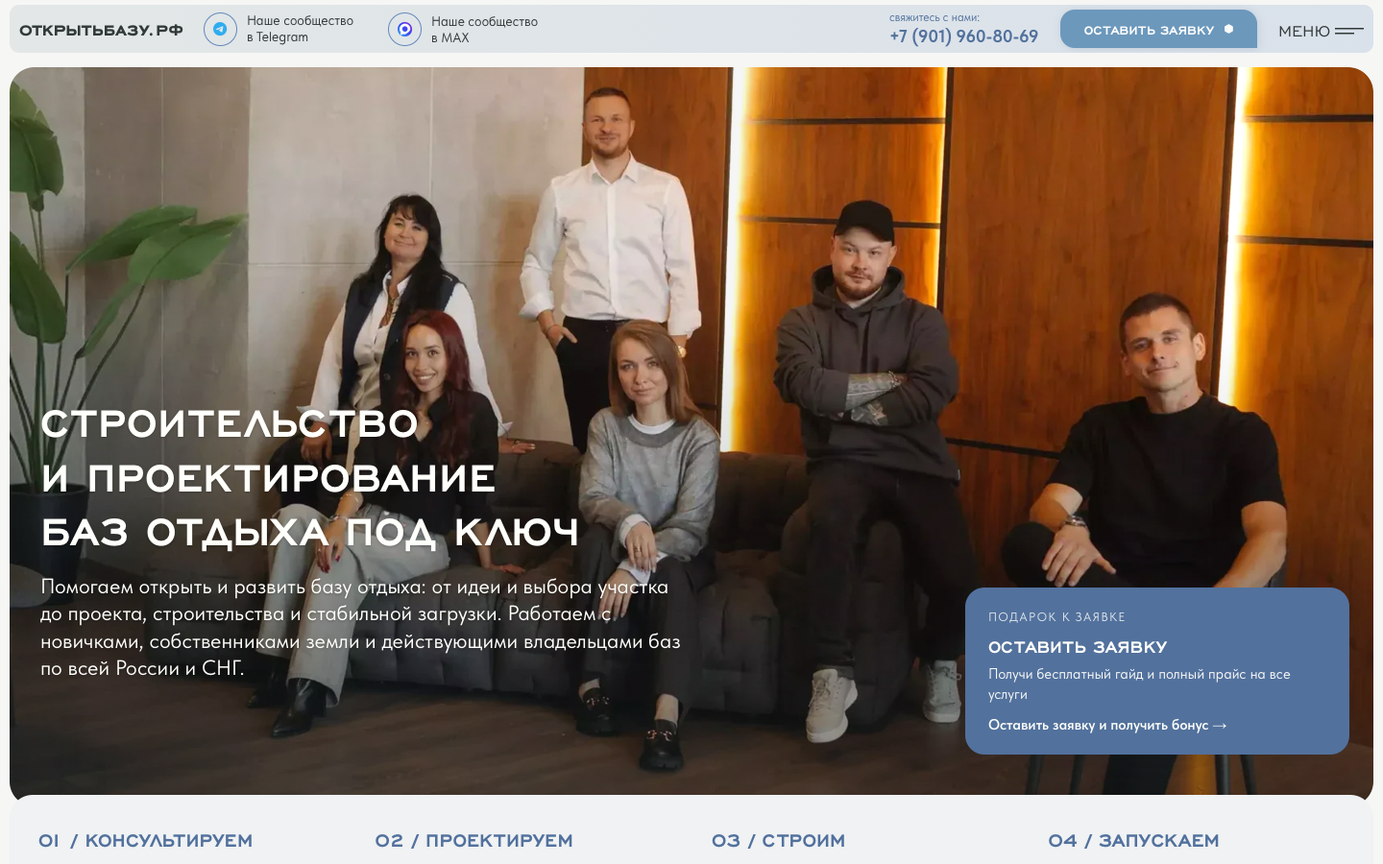
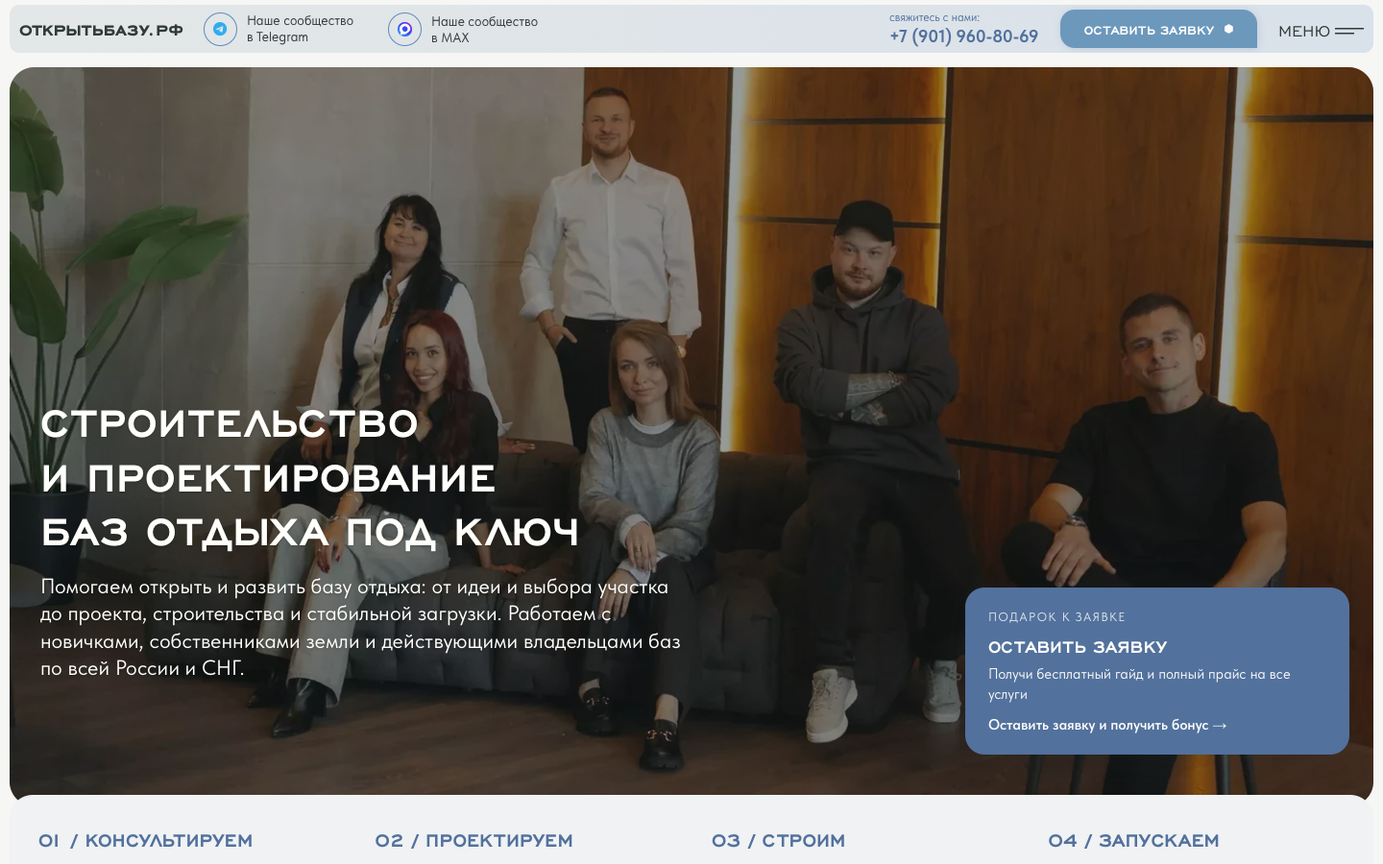
demo-26-11: равномерное затемнение фото для читаемости текста

diff --git a/demo-light-26-11/hero-reference.html b/demo-light-26-11/hero-reference.html
@@ -1,5 +1,5 @@
 <!DOCTYPE html>
-<html> <head><link rel="stylesheet" href="assets/hero-reference.css?v=reference"> <meta name="robots" content="noindex,nofollow,noarchive"><meta http-equiv="Content-Security-Policy" content="form-action 'none'; base-uri 'self'"><script src="assets/guard.js"></script><meta charset="utf-8">  <meta name="viewport" content="width=device-width, initial-scale=1.0"> <meta name="yandex-verification" content="db0ff118132128a9"> <!--metatextblock--> <title>Строительство и проектирование базы отдыха под ключ — от концепции до запуска</title> <meta name="description" content="Строительство базы отдыха под ключ: проектирование баз отдыха, разработка проектной документации, инженерных сетей и строительных решений, согласование и реализация объекта с учетом норм, ландшафта и туристического спроса"> <meta name="keywords" content="Строительство базы отдыха под ключ"> <meta property="og:url" content="https://xn--80abtjtnmcm9em.xn--p1ai"> <meta property="og:title" content="Открытьбазу.рф - платформа для открытия и продвижения баз отдыха"> <meta property="og:description" content="Наша платформа предоставляет полный спектр услуг для владельцев баз отдыха: от консультаций до продвижения вашего бизнеса. Мы поможем вам на каждом этапе — от создания проекта до успешного выхода на рынок."> <meta property="og:type" content="website"> <meta property="og:image" content="https://static.tildacdn.com/tild3066-3834-4465-a239-396330313564/IMG_7220-min.webp"> <link rel="canonical" href="https://xn--80abtjtnmcm9em.xn--p1ai"> <!--/metatextblock--> <meta name="format-detection" content="telephone=no"> <meta http-equiv="x-dns-prefetch-control" content="on"> <link rel="dns-prefetch" href="https://ws.tildacdn.com"> <link rel="dns-prefetch" href="https://static.tildacdn.com"> <!--favicons--> <link rel="icon" type="image/png" sizes="32x32" href="https://static.tildacdn.com/tild6233-6563-4039-a531-323463353235/Group_39681.png" media="(prefers-color-scheme: light)"> <link rel="icon" type="image/png" sizes="32x32" href="https://static.tildacdn.com/tild6265-3963-4135-b064-613138316530/Group_39681.png" media="(prefers-color-scheme: dark)"> <link rel="apple-touch-icon" type="image/png" href="https://static.tildacdn.com/tild3333-3363-4532-a564-623338663766/Group_39681.png"> <link rel="icon" type="image/png" sizes="192x192" href="https://static.tildacdn.com/tild3333-3363-4532-a564-623338663766/Group_39681.png"> <!--/favicons--> <!-- Assets --> <script src="https://neo.tildaapi.com/js/tilda-fallback-1.0.min.js" async charset="utf-8"></script> <link rel="stylesheet" href="https://static.tildacdn.com/css/tilda-grid-3.0.min.css" type="text/css" media="all" onerror="this.loaderr='y';"> <link rel="stylesheet" href="https://static.tildacdn.com/ws/project6324277/tilda-blocks-page108464746.min.css?t=1795439974" type="text/css" media="all" onerror="this.loaderr='y';"> <link rel="stylesheet" href="https://static.tildacdn.com/css/tilda-animation-2.0.min.css" type="text/css" media="all" onerror="this.loaderr='y';"> <link rel="stylesheet" href="https://static.tildacdn.com/css/tilda-popup-1.1.min.css" type="text/css" media="print" onload="this.media='all';" onerror="this.loaderr='y';"> <link rel="stylesheet" href="https://static.tildacdn.com/css/tilda-slds-1.4.min.css" type="text/css" media="print" onload="this.media='all';" onerror="this.loaderr='y';"> <link rel="stylesheet" href="https://static.tildacdn.com/css/tilda-catalog-1.1.min.css" type="text/css" media="print" onload="this.media='all';" onerror="this.loaderr='y';"> <link rel="stylesheet" href="https://static.tildacdn.com/css/tilda-forms-1.0.min.css" type="text/css" media="all" onerror="this.loaderr='y';"> <link rel="stylesheet" href="https://static.tildacdn.com/css/tilda-feed-1.1.min.css" type="text/css" media="all" onerror="this.loaderr='y';"> <link rel="stylesheet" href="https://static.tildacdn.com/css/tilda-zoom-2.0.min.css" type="text/css" media="print" onload="this.media='all';" onerror="this.loaderr='y';"> <link rel="stylesheet" href="https://static.tildacdn.com/css/katex.min.css" type="text/css" media="all" onerror="this.loaderr='y';"> <link rel="stylesheet" href="https://fonts.googleapis.com/css2?family=Montserrat:wght@300;400;600;700" type="text/css"> <link rel="stylesheet" href="https://static.tildacdn.com/css/fonts-tildasans.css" type="text/css" media="all" onerror="this.loaderr='y';"> <script nomodule src="https://static.tildacdn.com/js/tilda-polyfill-1.0.min.js" charset="utf-8"></script> <script type="text/javascript">function t_onReady(func) {if(document.readyState!='loading') {func();} else {document.addEventListener('DOMContentLoaded',func);}}
+<html> <head><link rel="stylesheet" href="assets/hero-reference.css?v=uniform"> <meta name="robots" content="noindex,nofollow,noarchive"><meta http-equiv="Content-Security-Policy" content="form-action 'none'; base-uri 'self'"><script src="assets/guard.js"></script><meta charset="utf-8">  <meta name="viewport" content="width=device-width, initial-scale=1.0"> <meta name="yandex-verification" content="db0ff118132128a9"> <!--metatextblock--> <title>Строительство и проектирование базы отдыха под ключ — от концепции до запуска</title> <meta name="description" content="Строительство базы отдыха под ключ: проектирование баз отдыха, разработка проектной документации, инженерных сетей и строительных решений, согласование и реализация объекта с учетом норм, ландшафта и туристического спроса"> <meta name="keywords" content="Строительство базы отдыха под ключ"> <meta property="og:url" content="https://xn--80abtjtnmcm9em.xn--p1ai"> <meta property="og:title" content="Открытьбазу.рф - платформа для открытия и продвижения баз отдыха"> <meta property="og:description" content="Наша платформа предоставляет полный спектр услуг для владельцев баз отдыха: от консультаций до продвижения вашего бизнеса. Мы поможем вам на каждом этапе — от создания проекта до успешного выхода на рынок."> <meta property="og:type" content="website"> <meta property="og:image" content="https://static.tildacdn.com/tild3066-3834-4465-a239-396330313564/IMG_7220-min.webp"> <link rel="canonical" href="https://xn--80abtjtnmcm9em.xn--p1ai"> <!--/metatextblock--> <meta name="format-detection" content="telephone=no"> <meta http-equiv="x-dns-prefetch-control" content="on"> <link rel="dns-prefetch" href="https://ws.tildacdn.com"> <link rel="dns-prefetch" href="https://static.tildacdn.com"> <!--favicons--> <link rel="icon" type="image/png" sizes="32x32" href="https://static.tildacdn.com/tild6233-6563-4039-a531-323463353235/Group_39681.png" media="(prefers-color-scheme: light)"> <link rel="icon" type="image/png" sizes="32x32" href="https://static.tildacdn.com/tild6265-3963-4135-b064-613138316530/Group_39681.png" media="(prefers-color-scheme: dark)"> <link rel="apple-touch-icon" type="image/png" href="https://static.tildacdn.com/tild3333-3363-4532-a564-623338663766/Group_39681.png"> <link rel="icon" type="image/png" sizes="192x192" href="https://static.tildacdn.com/tild3333-3363-4532-a564-623338663766/Group_39681.png"> <!--/favicons--> <!-- Assets --> <script src="https://neo.tildaapi.com/js/tilda-fallback-1.0.min.js" async charset="utf-8"></script> <link rel="stylesheet" href="https://static.tildacdn.com/css/tilda-grid-3.0.min.css" type="text/css" media="all" onerror="this.loaderr='y';"> <link rel="stylesheet" href="https://static.tildacdn.com/ws/project6324277/tilda-blocks-page108464746.min.css?t=1795439974" type="text/css" media="all" onerror="this.loaderr='y';"> <link rel="stylesheet" href="https://static.tildacdn.com/css/tilda-animation-2.0.min.css" type="text/css" media="all" onerror="this.loaderr='y';"> <link rel="stylesheet" href="https://static.tildacdn.com/css/tilda-popup-1.1.min.css" type="text/css" media="print" onload="this.media='all';" onerror="this.loaderr='y';"> <link rel="stylesheet" href="https://static.tildacdn.com/css/tilda-slds-1.4.min.css" type="text/css" media="print" onload="this.media='all';" onerror="this.loaderr='y';"> <link rel="stylesheet" href="https://static.tildacdn.com/css/tilda-catalog-1.1.min.css" type="text/css" media="print" onload="this.media='all';" onerror="this.loaderr='y';"> <link rel="stylesheet" href="https://static.tildacdn.com/css/tilda-forms-1.0.min.css" type="text/css" media="all" onerror="this.loaderr='y';"> <link rel="stylesheet" href="https://static.tildacdn.com/css/tilda-feed-1.1.min.css" type="text/css" media="all" onerror="this.loaderr='y';"> <link rel="stylesheet" href="https://static.tildacdn.com/css/tilda-zoom-2.0.min.css" type="text/css" media="print" onload="this.media='all';" onerror="this.loaderr='y';"> <link rel="stylesheet" href="https://static.tildacdn.com/css/katex.min.css" type="text/css" media="all" onerror="this.loaderr='y';"> <link rel="stylesheet" href="https://fonts.googleapis.com/css2?family=Montserrat:wght@300;400;600;700" type="text/css"> <link rel="stylesheet" href="https://static.tildacdn.com/css/fonts-tildasans.css" type="text/css" media="all" onerror="this.loaderr='y';"> <script nomodule src="https://static.tildacdn.com/js/tilda-polyfill-1.0.min.js" charset="utf-8"></script> <script type="text/javascript">function t_onReady(func) {if(document.readyState!='loading') {func();} else {document.addEventListener('DOMContentLoaded',func);}}
 function t_onFuncLoad(funcName,okFunc,time) {if(typeof window[funcName]==='function') {okFunc();} else {setTimeout(function() {t_onFuncLoad(funcName,okFunc,time);},(time||100));}}function t_throttle(fn,threshhold,scope) {return function() {fn.apply(scope||this,arguments);};}function t396_initialScale(t){var e=document.getElementById("rec"+t);if(e){var i=e.querySelector(".t396__artboard");if(i){window.tn_scale_initial_window_width||(window.tn_scale_initial_window_width=document.documentElement.clientWidth);var a=window.tn_scale_initial_window_width,l=[],n,r=i.getAttribute("data-artboard-screens");if(r){r=r.split(",");for(var o=0;o<r.length;o++)l[o]=parseInt(r[o],10)}else l=[320,480,640,960,1200];for(var o=0;o<l.length;o++){var _=l[o];a>=_&&(n=_)}var d="edit"===window.allrecords.getAttribute("data-tilda-mode"),s="center"===t396_scaleInitial__getFieldValue(i,"valign",n,l),c="grid"===t396_scaleInitial__getFieldValue(i,"upscale",n,l),u=t396_scaleInitial__getFieldValue(i,"height_vh",n,l),g=t396_scaleInitial__getFieldValue(i,"height",n,l),w=!!window.opr&&!!window.opr.addons||!!window.opera||-1!==navigator.userAgent.indexOf(" OPR/");if(!d&&s&&!c&&!u&&g&&!w){var f=parseFloat((a/n).toFixed(3)),h=[i,i.querySelector(".t396__carrier"),i.querySelector(".t396__filter")],v=Math.floor(parseInt(g,10)*f)+"px",p;i.style.setProperty("--initial-scale-height",v);for(var o=0;o<h.length;o++)h[o].style.setProperty("height","var(--initial-scale-height)");t396_scaleInitial__getElementsToScale(i,n,l).forEach((function(t){t.style.zoom=f}))}}}}function t396_scaleInitial__getElementsToScale(t,e,i){return t?Array.prototype.slice.call(t.children).filter((function(t){if(!t)return!1;if(!t.classList.contains("t396__elem")&&!t.classList.contains("t396__group"))return!1;if(!t.querySelector(".tn-molecule, .tn-atom"))return!1;var a=!t.getAttribute("data-elem-type")&&t.classList.contains("tn-group"),l=t396_scaleInitial__getFieldValue(t,"container",e,i);return!l&&a&&(l="grid"),"grid"===l})):[]}function t396_scaleInitial__getFieldValue(t,e,i,a){if(!t)return null;var l=a[a.length-1],n=t.getAttribute(t396_scaleInitial__getFieldAttribute(t,e,i,l));if(null===n)for(var r=0;r<a.length;r++){var o=a[r];if(!(o<=i)&&null!==(n=t.getAttribute(t396_scaleInitial__getFieldAttribute(t,e,o,l))))break}return n}function t396_scaleInitial__getFieldAttribute(t,e,i,a){var l=["widthmode","heightmode","flex"],n=t.classList.contains("t396__artboard"),r=!n&&t.classList.contains("tn-group"),o="data-field-";n&&(o="data-artboard-"),r&&(o="data-group-");var _="-value",d;return(n||r&&-1!==l.indexOf(e))&&(_=""),o+e+(i===a?"":"-res-"+i)+_}window.TN_SCALE_INITIAL_VER="1.0",window.tn_scale_initial_window_width=null;</script> <script src="https://static.tildacdn.com/js/jquery-1.10.2.min.js" charset="utf-8" onerror="this.loaderr='y';"></script> <script src="https://static.tildacdn.com/js/tilda-scripts-3.0.min.js" charset="utf-8" defer onerror="this.loaderr='y';"></script> <script src="https://static.tildacdn.com/ws/project6324277/tilda-blocks-page108464746.min.js?t=1795439974" charset="utf-8" async onerror="this.loaderr='y';"></script> <script src="https://static.tildacdn.com/js/tilda-lazyload-1.0.min.js" charset="utf-8" async onerror="this.loaderr='y';"></script> <script src="https://static.tildacdn.com/js/tilda-animation-2.0.min.js" charset="utf-8" async onerror="this.loaderr='y';"></script> <script src="https://static.tildacdn.com/js/tilda-zero-1.2.min.js" charset="utf-8" async onerror="this.loaderr='y';"></script> <script src="https://static.tildacdn.com/js/tilda-popup-1.0.min.js" charset="utf-8" async onerror="this.loaderr='y';"></script> <script src="https://static.tildacdn.com/js/tilda-video-1.0.min.js" charset="utf-8" async onerror="this.loaderr='y';"></script> <script src="https://static.tildacdn.com/js/tilda-slds-1.4.min.js" charset="utf-8" async onerror="this.loaderr='y';"></script> <script src="https://static.tildacdn.com/js/hammer.min.js" charset="utf-8" async onerror="this.loaderr='y';"></script> <script src="https://static.tildacdn.com/js/tilda-products-1.0.min.js" charset="utf-8" async onerror="this.loaderr='y';"></script> <script src="https://static.tildacdn.com/js/tilda-catalog-1.1.min.js" charset="utf-8" async onerror="this.loaderr='y';"></script> <script src="https://static.tildacdn.com/js/tilda-feed-1.1.min.js" charset="utf-8" async onerror="this.loaderr='y';"></script> <script src="https://static.tildacdn.com/js/tilda-faq-1.0.min.js" charset="utf-8" async onerror="this.loaderr='y';"></script> <script src="https://static.tildacdn.com/js/tilda-menu-1.0.min.js" charset="utf-8" async onerror="this.loaderr='y';"></script> <script src="https://static.tildacdn.com/js/tilda-forms-1.0.min.js" charset="utf-8" async onerror="this.loaderr='y';"></script> <script src="https://static.tildacdn.com/js/tilda-video-processor-1.0.min.js" charset="utf-8" async onerror="this.loaderr='y';"></script> <script src="https://static.tildacdn.com/js/tilda-animation-sbs-1.0.min.js" charset="utf-8" async onerror="this.loaderr='y';"></script> <script src="https://static.tildacdn.com/js/tilda-zoom-2.0.min.js" charset="utf-8" async onerror="this.loaderr='y';"></script> <script src="https://static.tildacdn.com/js/tilda-zero-scale-1.0.min.js" charset="utf-8" async onerror="this.loaderr='y';"></script> <script src="https://static.tildacdn.com/js/tilda-zero-tooltip-1.1.min.js" charset="utf-8" async onerror="this.loaderr='y';"></script> <script src="https://static.tildacdn.com/js/tilda-zero-fixed-1.0.min.js" charset="utf-8" async onerror="this.loaderr='y';"></script> <script src="https://static.tildacdn.com/js/tilda-skiplink-1.0.min.js" charset="utf-8" async onerror="this.loaderr='y';"></script> <script src="https://static.tildacdn.com/js/tilda-events-1.0.min.js" charset="utf-8" async onerror="this.loaderr='y';"></script> <script src="https://static.tildacdn.com/js/tilda-formula.min.js" charset="utf-8" async onerror="this.loaderr='y';"></script> <script src="https://static.tildacdn.com/js/tilda-autoscale-1.0.min.js" charset="utf-8" async onerror="this.loaderr='y';"></script> <!-- nominify begin --><script src="https://cdn.postnikovmd.com/tilda@1.4/mods.min.js"></script> <script src="https://cdn.postnikovmd.com/tilda@1.6/mods.min.js"></script> <!-- Согласованные статьи и отдельные страницы проектов, 18.11.2026 --> <!-- Код для страниц статей /tpost/ (16.11). Основа — блок Codex «Блок для статей.html»; цвета по брендбуку, окно в начале чтения,
      ссылки в тексте на страницы сайта, заявка ведёт на страницу услуги по теме статьи. --> <style>
 .ob-ст{box-sizing:border-box;color:#313a39;font-family:'TildaSans',Arial,sans-serif}

diff --git a/demo-light-26-11/index.html b/demo-light-26-11/index.html
@@ -1,5 +1,5 @@
 <!DOCTYPE html>
-<html> <head><link rel="stylesheet" href="assets/hero-reference.css?v=reference"> <meta name="robots" content="noindex,nofollow,noarchive"><meta http-equiv="Content-Security-Policy" content="form-action 'none'; base-uri 'self'"><script src="assets/guard.js"></script><meta charset="utf-8">  <meta name="viewport" content="width=device-width, initial-scale=1.0"> <meta name="yandex-verification" content="db0ff118132128a9"> <!--metatextblock--> <title>Строительство и проектирование базы отдыха под ключ — от концепции до запуска</title> <meta name="description" content="Строительство базы отдыха под ключ: проектирование баз отдыха, разработка проектной документации, инженерных сетей и строительных решений, согласование и реализация объекта с учетом норм, ландшафта и туристического спроса"> <meta name="keywords" content="Строительство базы отдыха под ключ"> <meta property="og:url" content="https://xn--80abtjtnmcm9em.xn--p1ai"> <meta property="og:title" content="Открытьбазу.рф - платформа для открытия и продвижения баз отдыха"> <meta property="og:description" content="Наша платформа предоставляет полный спектр услуг для владельцев баз отдыха: от консультаций до продвижения вашего бизнеса. Мы поможем вам на каждом этапе — от создания проекта до успешного выхода на рынок."> <meta property="og:type" content="website"> <meta property="og:image" content="https://static.tildacdn.com/tild3066-3834-4465-a239-396330313564/IMG_7220-min.webp"> <link rel="canonical" href="https://xn--80abtjtnmcm9em.xn--p1ai"> <!--/metatextblock--> <meta name="format-detection" content="telephone=no"> <meta http-equiv="x-dns-prefetch-control" content="on"> <link rel="dns-prefetch" href="https://ws.tildacdn.com"> <link rel="dns-prefetch" href="https://static.tildacdn.com"> <!--favicons--> <link rel="icon" type="image/png" sizes="32x32" href="https://static.tildacdn.com/tild6233-6563-4039-a531-323463353235/Group_39681.png" media="(prefers-color-scheme: light)"> <link rel="icon" type="image/png" sizes="32x32" href="https://static.tildacdn.com/tild6265-3963-4135-b064-613138316530/Group_39681.png" media="(prefers-color-scheme: dark)"> <link rel="apple-touch-icon" type="image/png" href="https://static.tildacdn.com/tild3333-3363-4532-a564-623338663766/Group_39681.png"> <link rel="icon" type="image/png" sizes="192x192" href="https://static.tildacdn.com/tild3333-3363-4532-a564-623338663766/Group_39681.png"> <!--/favicons--> <!-- Assets --> <script src="https://neo.tildaapi.com/js/tilda-fallback-1.0.min.js" async charset="utf-8"></script> <link rel="stylesheet" href="https://static.tildacdn.com/css/tilda-grid-3.0.min.css" type="text/css" media="all" onerror="this.loaderr='y';"> <link rel="stylesheet" href="https://static.tildacdn.com/ws/project6324277/tilda-blocks-page108464746.min.css?t=1795439974" type="text/css" media="all" onerror="this.loaderr='y';"> <link rel="stylesheet" href="https://static.tildacdn.com/css/tilda-animation-2.0.min.css" type="text/css" media="all" onerror="this.loaderr='y';"> <link rel="stylesheet" href="https://static.tildacdn.com/css/tilda-popup-1.1.min.css" type="text/css" media="print" onload="this.media='all';" onerror="this.loaderr='y';"> <link rel="stylesheet" href="https://static.tildacdn.com/css/tilda-slds-1.4.min.css" type="text/css" media="print" onload="this.media='all';" onerror="this.loaderr='y';"> <link rel="stylesheet" href="https://static.tildacdn.com/css/tilda-catalog-1.1.min.css" type="text/css" media="print" onload="this.media='all';" onerror="this.loaderr='y';"> <link rel="stylesheet" href="https://static.tildacdn.com/css/tilda-forms-1.0.min.css" type="text/css" media="all" onerror="this.loaderr='y';"> <link rel="stylesheet" href="https://static.tildacdn.com/css/tilda-feed-1.1.min.css" type="text/css" media="all" onerror="this.loaderr='y';"> <link rel="stylesheet" href="https://static.tildacdn.com/css/tilda-zoom-2.0.min.css" type="text/css" media="print" onload="this.media='all';" onerror="this.loaderr='y';"> <link rel="stylesheet" href="https://static.tildacdn.com/css/katex.min.css" type="text/css" media="all" onerror="this.loaderr='y';"> <link rel="stylesheet" href="https://fonts.googleapis.com/css2?family=Montserrat:wght@300;400;600;700" type="text/css"> <link rel="stylesheet" href="https://static.tildacdn.com/css/fonts-tildasans.css" type="text/css" media="all" onerror="this.loaderr='y';"> <script nomodule src="https://static.tildacdn.com/js/tilda-polyfill-1.0.min.js" charset="utf-8"></script> <script type="text/javascript">function t_onReady(func) {if(document.readyState!='loading') {func();} else {document.addEventListener('DOMContentLoaded',func);}}
+<html> <head><link rel="stylesheet" href="assets/hero-reference.css?v=uniform"> <meta name="robots" content="noindex,nofollow,noarchive"><meta http-equiv="Content-Security-Policy" content="form-action 'none'; base-uri 'self'"><script src="assets/guard.js"></script><meta charset="utf-8">  <meta name="viewport" content="width=device-width, initial-scale=1.0"> <meta name="yandex-verification" content="db0ff118132128a9"> <!--metatextblock--> <title>Строительство и проектирование базы отдыха под ключ — от концепции до запуска</title> <meta name="description" content="Строительство базы отдыха под ключ: проектирование баз отдыха, разработка проектной документации, инженерных сетей и строительных решений, согласование и реализация объекта с учетом норм, ландшафта и туристического спроса"> <meta name="keywords" content="Строительство базы отдыха под ключ"> <meta property="og:url" content="https://xn--80abtjtnmcm9em.xn--p1ai"> <meta property="og:title" content="Открытьбазу.рф - платформа для открытия и продвижения баз отдыха"> <meta property="og:description" content="Наша платформа предоставляет полный спектр услуг для владельцев баз отдыха: от консультаций до продвижения вашего бизнеса. Мы поможем вам на каждом этапе — от создания проекта до успешного выхода на рынок."> <meta property="og:type" content="website"> <meta property="og:image" content="https://static.tildacdn.com/tild3066-3834-4465-a239-396330313564/IMG_7220-min.webp"> <link rel="canonical" href="https://xn--80abtjtnmcm9em.xn--p1ai"> <!--/metatextblock--> <meta name="format-detection" content="telephone=no"> <meta http-equiv="x-dns-prefetch-control" content="on"> <link rel="dns-prefetch" href="https://ws.tildacdn.com"> <link rel="dns-prefetch" href="https://static.tildacdn.com"> <!--favicons--> <link rel="icon" type="image/png" sizes="32x32" href="https://static.tildacdn.com/tild6233-6563-4039-a531-323463353235/Group_39681.png" media="(prefers-color-scheme: light)"> <link rel="icon" type="image/png" sizes="32x32" href="https://static.tildacdn.com/tild6265-3963-4135-b064-613138316530/Group_39681.png" media="(prefers-color-scheme: dark)"> <link rel="apple-touch-icon" type="image/png" href="https://static.tildacdn.com/tild3333-3363-4532-a564-623338663766/Group_39681.png"> <link rel="icon" type="image/png" sizes="192x192" href="https://static.tildacdn.com/tild3333-3363-4532-a564-623338663766/Group_39681.png"> <!--/favicons--> <!-- Assets --> <script src="https://neo.tildaapi.com/js/tilda-fallback-1.0.min.js" async charset="utf-8"></script> <link rel="stylesheet" href="https://static.tildacdn.com/css/tilda-grid-3.0.min.css" type="text/css" media="all" onerror="this.loaderr='y';"> <link rel="stylesheet" href="https://static.tildacdn.com/ws/project6324277/tilda-blocks-page108464746.min.css?t=1795439974" type="text/css" media="all" onerror="this.loaderr='y';"> <link rel="stylesheet" href="https://static.tildacdn.com/css/tilda-animation-2.0.min.css" type="text/css" media="all" onerror="this.loaderr='y';"> <link rel="stylesheet" href="https://static.tildacdn.com/css/tilda-popup-1.1.min.css" type="text/css" media="print" onload="this.media='all';" onerror="this.loaderr='y';"> <link rel="stylesheet" href="https://static.tildacdn.com/css/tilda-slds-1.4.min.css" type="text/css" media="print" onload="this.media='all';" onerror="this.loaderr='y';"> <link rel="stylesheet" href="https://static.tildacdn.com/css/tilda-catalog-1.1.min.css" type="text/css" media="print" onload="this.media='all';" onerror="this.loaderr='y';"> <link rel="stylesheet" href="https://static.tildacdn.com/css/tilda-forms-1.0.min.css" type="text/css" media="all" onerror="this.loaderr='y';"> <link rel="stylesheet" href="https://static.tildacdn.com/css/tilda-feed-1.1.min.css" type="text/css" media="all" onerror="this.loaderr='y';"> <link rel="stylesheet" href="https://static.tildacdn.com/css/tilda-zoom-2.0.min.css" type="text/css" media="print" onload="this.media='all';" onerror="this.loaderr='y';"> <link rel="stylesheet" href="https://static.tildacdn.com/css/katex.min.css" type="text/css" media="all" onerror="this.loaderr='y';"> <link rel="stylesheet" href="https://fonts.googleapis.com/css2?family=Montserrat:wght@300;400;600;700" type="text/css"> <link rel="stylesheet" href="https://static.tildacdn.com/css/fonts-tildasans.css" type="text/css" media="all" onerror="this.loaderr='y';"> <script nomodule src="https://static.tildacdn.com/js/tilda-polyfill-1.0.min.js" charset="utf-8"></script> <script type="text/javascript">function t_onReady(func) {if(document.readyState!='loading') {func();} else {document.addEventListener('DOMContentLoaded',func);}}
 function t_onFuncLoad(funcName,okFunc,time) {if(typeof window[funcName]==='function') {okFunc();} else {setTimeout(function() {t_onFuncLoad(funcName,okFunc,time);},(time||100));}}function t_throttle(fn,threshhold,scope) {return function() {fn.apply(scope||this,arguments);};}function t396_initialScale(t){var e=document.getElementById("rec"+t);if(e){var i=e.querySelector(".t396__artboard");if(i){window.tn_scale_initial_window_width||(window.tn_scale_initial_window_width=document.documentElement.clientWidth);var a=window.tn_scale_initial_window_width,l=[],n,r=i.getAttribute("data-artboard-screens");if(r){r=r.split(",");for(var o=0;o<r.length;o++)l[o]=parseInt(r[o],10)}else l=[320,480,640,960,1200];for(var o=0;o<l.length;o++){var _=l[o];a>=_&&(n=_)}var d="edit"===window.allrecords.getAttribute("data-tilda-mode"),s="center"===t396_scaleInitial__getFieldValue(i,"valign",n,l),c="grid"===t396_scaleInitial__getFieldValue(i,"upscale",n,l),u=t396_scaleInitial__getFieldValue(i,"height_vh",n,l),g=t396_scaleInitial__getFieldValue(i,"height",n,l),w=!!window.opr&&!!window.opr.addons||!!window.opera||-1!==navigator.userAgent.indexOf(" OPR/");if(!d&&s&&!c&&!u&&g&&!w){var f=parseFloat((a/n).toFixed(3)),h=[i,i.querySelector(".t396__carrier"),i.querySelector(".t396__filter")],v=Math.floor(parseInt(g,10)*f)+"px",p;i.style.setProperty("--initial-scale-height",v);for(var o=0;o<h.length;o++)h[o].style.setProperty("height","var(--initial-scale-height)");t396_scaleInitial__getElementsToScale(i,n,l).forEach((function(t){t.style.zoom=f}))}}}}function t396_scaleInitial__getElementsToScale(t,e,i){return t?Array.prototype.slice.call(t.children).filter((function(t){if(!t)return!1;if(!t.classList.contains("t396__elem")&&!t.classList.contains("t396__group"))return!1;if(!t.querySelector(".tn-molecule, .tn-atom"))return!1;var a=!t.getAttribute("data-elem-type")&&t.classList.contains("tn-group"),l=t396_scaleInitial__getFieldValue(t,"container",e,i);return!l&&a&&(l="grid"),"grid"===l})):[]}function t396_scaleInitial__getFieldValue(t,e,i,a){if(!t)return null;var l=a[a.length-1],n=t.getAttribute(t396_scaleInitial__getFieldAttribute(t,e,i,l));if(null===n)for(var r=0;r<a.length;r++){var o=a[r];if(!(o<=i)&&null!==(n=t.getAttribute(t396_scaleInitial__getFieldAttribute(t,e,o,l))))break}return n}function t396_scaleInitial__getFieldAttribute(t,e,i,a){var l=["widthmode","heightmode","flex"],n=t.classList.contains("t396__artboard"),r=!n&&t.classList.contains("tn-group"),o="data-field-";n&&(o="data-artboard-"),r&&(o="data-group-");var _="-value",d;return(n||r&&-1!==l.indexOf(e))&&(_=""),o+e+(i===a?"":"-res-"+i)+_}window.TN_SCALE_INITIAL_VER="1.0",window.tn_scale_initial_window_width=null;</script> <script src="https://static.tildacdn.com/js/jquery-1.10.2.min.js" charset="utf-8" onerror="this.loaderr='y';"></script> <script src="https://static.tildacdn.com/js/tilda-scripts-3.0.min.js" charset="utf-8" defer onerror="this.loaderr='y';"></script> <script src="https://static.tildacdn.com/ws/project6324277/tilda-blocks-page108464746.min.js?t=1795439974" charset="utf-8" async onerror="this.loaderr='y';"></script> <script src="https://static.tildacdn.com/js/tilda-lazyload-1.0.min.js" charset="utf-8" async onerror="this.loaderr='y';"></script> <script src="https://static.tildacdn.com/js/tilda-animation-2.0.min.js" charset="utf-8" async onerror="this.loaderr='y';"></script> <script src="https://static.tildacdn.com/js/tilda-zero-1.2.min.js" charset="utf-8" async onerror="this.loaderr='y';"></script> <script src="https://static.tildacdn.com/js/tilda-popup-1.0.min.js" charset="utf-8" async onerror="this.loaderr='y';"></script> <script src="https://static.tildacdn.com/js/tilda-video-1.0.min.js" charset="utf-8" async onerror="this.loaderr='y';"></script> <script src="https://static.tildacdn.com/js/tilda-slds-1.4.min.js" charset="utf-8" async onerror="this.loaderr='y';"></script> <script src="https://static.tildacdn.com/js/hammer.min.js" charset="utf-8" async onerror="this.loaderr='y';"></script> <script src="https://static.tildacdn.com/js/tilda-products-1.0.min.js" charset="utf-8" async onerror="this.loaderr='y';"></script> <script src="https://static.tildacdn.com/js/tilda-catalog-1.1.min.js" charset="utf-8" async onerror="this.loaderr='y';"></script> <script src="https://static.tildacdn.com/js/tilda-feed-1.1.min.js" charset="utf-8" async onerror="this.loaderr='y';"></script> <script src="https://static.tildacdn.com/js/tilda-faq-1.0.min.js" charset="utf-8" async onerror="this.loaderr='y';"></script> <script src="https://static.tildacdn.com/js/tilda-menu-1.0.min.js" charset="utf-8" async onerror="this.loaderr='y';"></script> <script src="https://static.tildacdn.com/js/tilda-forms-1.0.min.js" charset="utf-8" async onerror="this.loaderr='y';"></script> <script src="https://static.tildacdn.com/js/tilda-video-processor-1.0.min.js" charset="utf-8" async onerror="this.loaderr='y';"></script> <script src="https://static.tildacdn.com/js/tilda-animation-sbs-1.0.min.js" charset="utf-8" async onerror="this.loaderr='y';"></script> <script src="https://static.tildacdn.com/js/tilda-zoom-2.0.min.js" charset="utf-8" async onerror="this.loaderr='y';"></script> <script src="https://static.tildacdn.com/js/tilda-zero-scale-1.0.min.js" charset="utf-8" async onerror="this.loaderr='y';"></script> <script src="https://static.tildacdn.com/js/tilda-zero-tooltip-1.1.min.js" charset="utf-8" async onerror="this.loaderr='y';"></script> <script src="https://static.tildacdn.com/js/tilda-zero-fixed-1.0.min.js" charset="utf-8" async onerror="this.loaderr='y';"></script> <script src="https://static.tildacdn.com/js/tilda-skiplink-1.0.min.js" charset="utf-8" async onerror="this.loaderr='y';"></script> <script src="https://static.tildacdn.com/js/tilda-events-1.0.min.js" charset="utf-8" async onerror="this.loaderr='y';"></script> <script src="https://static.tildacdn.com/js/tilda-formula.min.js" charset="utf-8" async onerror="this.loaderr='y';"></script> <script src="https://static.tildacdn.com/js/tilda-autoscale-1.0.min.js" charset="utf-8" async onerror="this.loaderr='y';"></script> <!-- nominify begin --><script src="https://cdn.postnikovmd.com/tilda@1.4/mods.min.js"></script> <script src="https://cdn.postnikovmd.com/tilda@1.6/mods.min.js"></script> <!-- Согласованные статьи и отдельные страницы проектов, 18.11.2026 --> <!-- Код для страниц статей /tpost/ (16.11). Основа — блок Codex «Блок для статей.html»; цвета по брендбуку, окно в начале чтения,
      ссылки в тексте на страницы сайта, заявка ведёт на страницу услуги по теме статьи. --> <style>
 .ob-ст{box-sizing:border-box;color:#313a39;font-family:'TildaSans',Arial,sans-serif}

diff --git a/demo-light-26-11/start.html b/demo-light-26-11/start.html
@@ -1,4 +1,4 @@
 <!doctype html>
 <html lang="ru"><head><meta charset="utf-8"><meta name="viewport" content="width=device-width,initial-scale=1"><meta name="robots" content="noindex,nofollow,noarchive"><title>Открытьбазу — фото на весь экран и правки</title><style>
 @font-face{font-family:TildaSans;src:url(assets/TildaSans-Regular.woff2)}@font-face{font-family:EngraversGothic;src:url(assets/EngraversGothic-Bold.woff)}*{box-sizing:border-box}body{margin:0;background:#fffffb;color:#313a39;font:18px/1.45 TildaSans,Arial,sans-serif}main{max-width:1280px;margin:auto;padding:30px 24px 70px}header{color:#52719d;border-bottom:1px solid #dce4e9;padding-bottom:22px;margin-bottom:40px}h1,h2{font-family:EngraversGothic,Arial,sans-serif;color:#52719d;text-transform:uppercase}h1{font-size:44px;line-height:1.1;max-width:850px;margin:0 0 15px}h2{font-size:26px;line-height:1.15;margin:18px 0 10px}p{margin:0 0 25px}a{color:#52719d}.grid{display:grid;grid-template-columns:repeat(3,1fr);gap:22px;margin:32px 0 50px}.card{border:1px solid #dce4e9;border-radius:24px;overflow:hidden;padding-bottom:25px;display:flex;flex-direction:column}.card>a:first-child{display:block}.card img{width:100%;display:block;aspect-ratio:1440/900;object-fit:cover}.card h2,.card p,.card .button{margin-left:22px;margin-right:22px}.card p{font-size:16px}.button{display:inline-flex;align-items:center;justify-content:center;background:#52719d;color:#fffffb;padding:13px 20px;border-radius:15px 15px 0 15px;text-decoration:none;font-size:17px;margin-top:auto}.button:hover{background:#6c98bc}section{background:#edf2f4;padding:28px;border-radius:24px}ul{padding-left:23px;margin:18px 0 25px}li{margin:10px 0}.links{display:flex;gap:15px;flex-wrap:wrap}.note{font-size:15px;color:#667473;margin:25px 0 0}@media(max-width:760px){.grid{grid-template-columns:1fr}h1{font-size:34px}.card img{aspect-ratio:1440/900}main{padding:25px 18px 50px}}
-</style></head><body><main><header>ОТКРЫТЬБАЗУ.РФ · ДЕМО · 26 НОЯБРЯ</header><h1>Главная — по вашему образцу</h1><p>Фото на весь фон, белый текст слева и синяя плашка заявки справа. Только демо.</p><div class="grid" style="grid-template-columns:1fr"><article class="card"><a href="index.html?v=reference"><img src="assets/preview-reference.png?v=reference" alt="Главная: фото на весь фон, текст и заявка как на образце"></a><h2>Фото и текст — как на вашем скрине</h2><p>Фотография заполняет весь фон. Слева — прежние заголовок и описание, справа — синяя плашка заявки.</p><a class="button" href="index.html?v=reference">Открыть главную демо →</a></article></div><section><h2>Правки по списку</h2><ul><li>Окно при переходе на другую страницу и попытке уйти с сайта.</li><li>MAX и телефон помещаются в шапке без наложения.</li><li>Два проекта Саши: YallaVillage и база отдыха в Истринском районе.</li><li>«Узнали свою идею?» — светлая плашка с синей кнопкой. В окне выхода нет зелёного наведения.</li><li>«Земли ещё нет» ведёт на Биржу земли; «Участок уже есть» — на кейсы; примеры строительства — к трём YouTube-выпускам.</li><li>Тематика формы зависит от страницы и выбранного проекта.</li></ul><div class="links"><a class="button" href="index.html#rv-idea">Плашка после кейсов →</a><a class="button" href="cases.html#rv-new-projects">Новые проекты →</a><a class="button" href="engineering.html?ob_request=%D0%9F%D1%80%D0%BE%D0%B5%D0%BA%D1%82%D0%B8%D1%80%D0%BE%D0%B2%D0%B0%D0%BD%D0%B8%D0%B5%20%D0%B1%D0%B0%D0%B7%D1%8B%20%D0%BE%D1%82%D0%B4%D1%8B%D1%85%D0%B0">Форма проектирования →</a><a class="button" href="websites.html?ob_request=%D0%9F%D1%80%D0%BE%D0%B4%D0%B2%D0%B8%D0%B6%D0%B5%D0%BD%D0%B8%D0%B5%20%D0%B1%D0%B0%D0%B7%D1%8B%20%D0%BE%D1%82%D0%B4%D1%8B%D1%85%D0%B0">Форма продвижения →</a></div></section><p class="note">Только демонстрация. В Тильду ничего не опубликовано. Формы не отправляют данные.</p></main></body></html>
+</style></head><body><main><header>ОТКРЫТЬБАЗУ.РФ · ДЕМО · 26 НОЯБРЯ</header><h1>Главная — по вашему образцу</h1><p>Фото на весь фон, белый текст слева и синяя плашка заявки справа. Только демо.</p><div class="grid" style="grid-template-columns:1fr"><article class="card"><a href="index.html?v=uniform"><img src="assets/preview-reference.png?v=uniform" alt="Главная: фото на весь фон, текст и заявка как на образце"></a><h2>Фото и текст — как на вашем скрине</h2><p>Фотография заполняет весь фон. Слева — прежние заголовок и описание, справа — синяя плашка заявки.</p><a class="button" href="index.html?v=uniform">Открыть главную демо →</a></article></div><section><h2>Правки по списку</h2><ul><li>Окно при переходе на другую страницу и попытке уйти с сайта.</li><li>MAX и телефон помещаются в шапке без наложения.</li><li>Два проекта Саши: YallaVillage и база отдыха в Истринском районе.</li><li>«Узнали свою идею?» — светлая плашка с синей кнопкой. В окне выхода нет зелёного наведения.</li><li>«Земли ещё нет» ведёт на Биржу земли; «Участок уже есть» — на кейсы; примеры строительства — к трём YouTube-выпускам.</li><li>Тематика формы зависит от страницы и выбранного проекта.</li></ul><div class="links"><a class="button" href="index.html#rv-idea">Плашка после кейсов →</a><a class="button" href="cases.html#rv-new-projects">Новые проекты →</a><a class="button" href="engineering.html?ob_request=%D0%9F%D1%80%D0%BE%D0%B5%D0%BA%D1%82%D0%B8%D1%80%D0%BE%D0%B2%D0%B0%D0%BD%D0%B8%D0%B5%20%D0%B1%D0%B0%D0%B7%D1%8B%20%D0%BE%D1%82%D0%B4%D1%8B%D1%85%D0%B0">Форма проектирования →</a><a class="button" href="websites.html?ob_request=%D0%9F%D1%80%D0%BE%D0%B4%D0%B2%D0%B8%D0%B6%D0%B5%D0%BD%D0%B8%D0%B5%20%D0%B1%D0%B0%D0%B7%D1%8B%20%D0%BE%D1%82%D0%B4%D1%8B%D1%85%D0%B0">Форма продвижения →</a></div></section><p class="note">Только демонстрация. В Тильду ничего не опубликовано. Формы не отправляют данные.</p></main></body></html>

diff --git a/demo-light-26-11/assets/hero-reference.css b/demo-light-26-11/assets/hero-reference.css
@@ -3,8 +3,8 @@
 #obv-preview *{box-sizing:border-box}
 #obv-preview .obv-reference{position:relative;height:clamp(720px,calc(100svh - 130px),880px);margin:0 10px;border-radius:26px;overflow:hidden;background:#d2c8b9}
 #obv-preview .obv-photo{position:absolute;inset:0;width:100%;height:100%;margin:0}
-#obv-preview .obv-photo img{display:block;width:100%;height:100%;object-fit:cover;object-position:center 38%;filter:brightness(1.08)}
-#obv-preview .obv-shade{position:absolute;inset:0;pointer-events:none;background:linear-gradient(90deg,rgba(18,29,30,.24),rgba(18,29,30,.10) 36%,transparent 65%),linear-gradient(0deg,rgba(18,29,30,.48),rgba(18,29,30,.18) 30%,transparent 65%)}
+#obv-preview .obv-photo img{display:block;width:100%;height:100%;object-fit:cover;object-position:center 38%;filter:none}
+#obv-preview .obv-shade{position:absolute;inset:0;pointer-events:none;background:rgba(18,29,30,.44)}
 #obv-preview .obv-copy{position:absolute;left:32px;bottom:130px;width:54%;max-width:760px;z-index:1}
 #obv-preview .obv-title{font:700 clamp(34px,3.6vw,52px)/1.09 EngraversGothic,Arial,sans-serif;text-transform:uppercase;letter-spacing:.005em;color:#fffffb!important;-webkit-text-fill-color:#fffffb!important;background:none!important;text-shadow:0 1px 3px rgba(0,0,0,.22)!important;margin:0}
 #obv-preview .obv-lead{font:400 22px/1.3 TildaSans,Arial,sans-serif;color:#fffffb;margin:20px 0 0;max-width:670px;text-shadow:0 1px 3px rgba(0,0,0,.25)}
@@ -24,7 +24,6 @@
 @media(max-width:640px){
  #obv-preview .obv-reference{height:calc(100svh - 70px);min-height:650px;margin:0 10px;display:flex;flex-direction:column;justify-content:flex-end;gap:23px;padding:0 21px 80px;border-radius:24px}
  #obv-preview .obv-photo img{object-position:43% top}
- #obv-preview .obv-shade{background:linear-gradient(0deg,rgba(18,29,30,.66),rgba(18,29,30,.10) 58%,transparent 80%)}
  #obv-preview .obv-copy{position:relative;inset:auto;width:100%;max-width:none;flex:0 0 auto}
  #obv-preview .obv-title{font-size:27px;line-height:1.1}
  #obv-preview .obv-copy .obv-lead{display:none}
